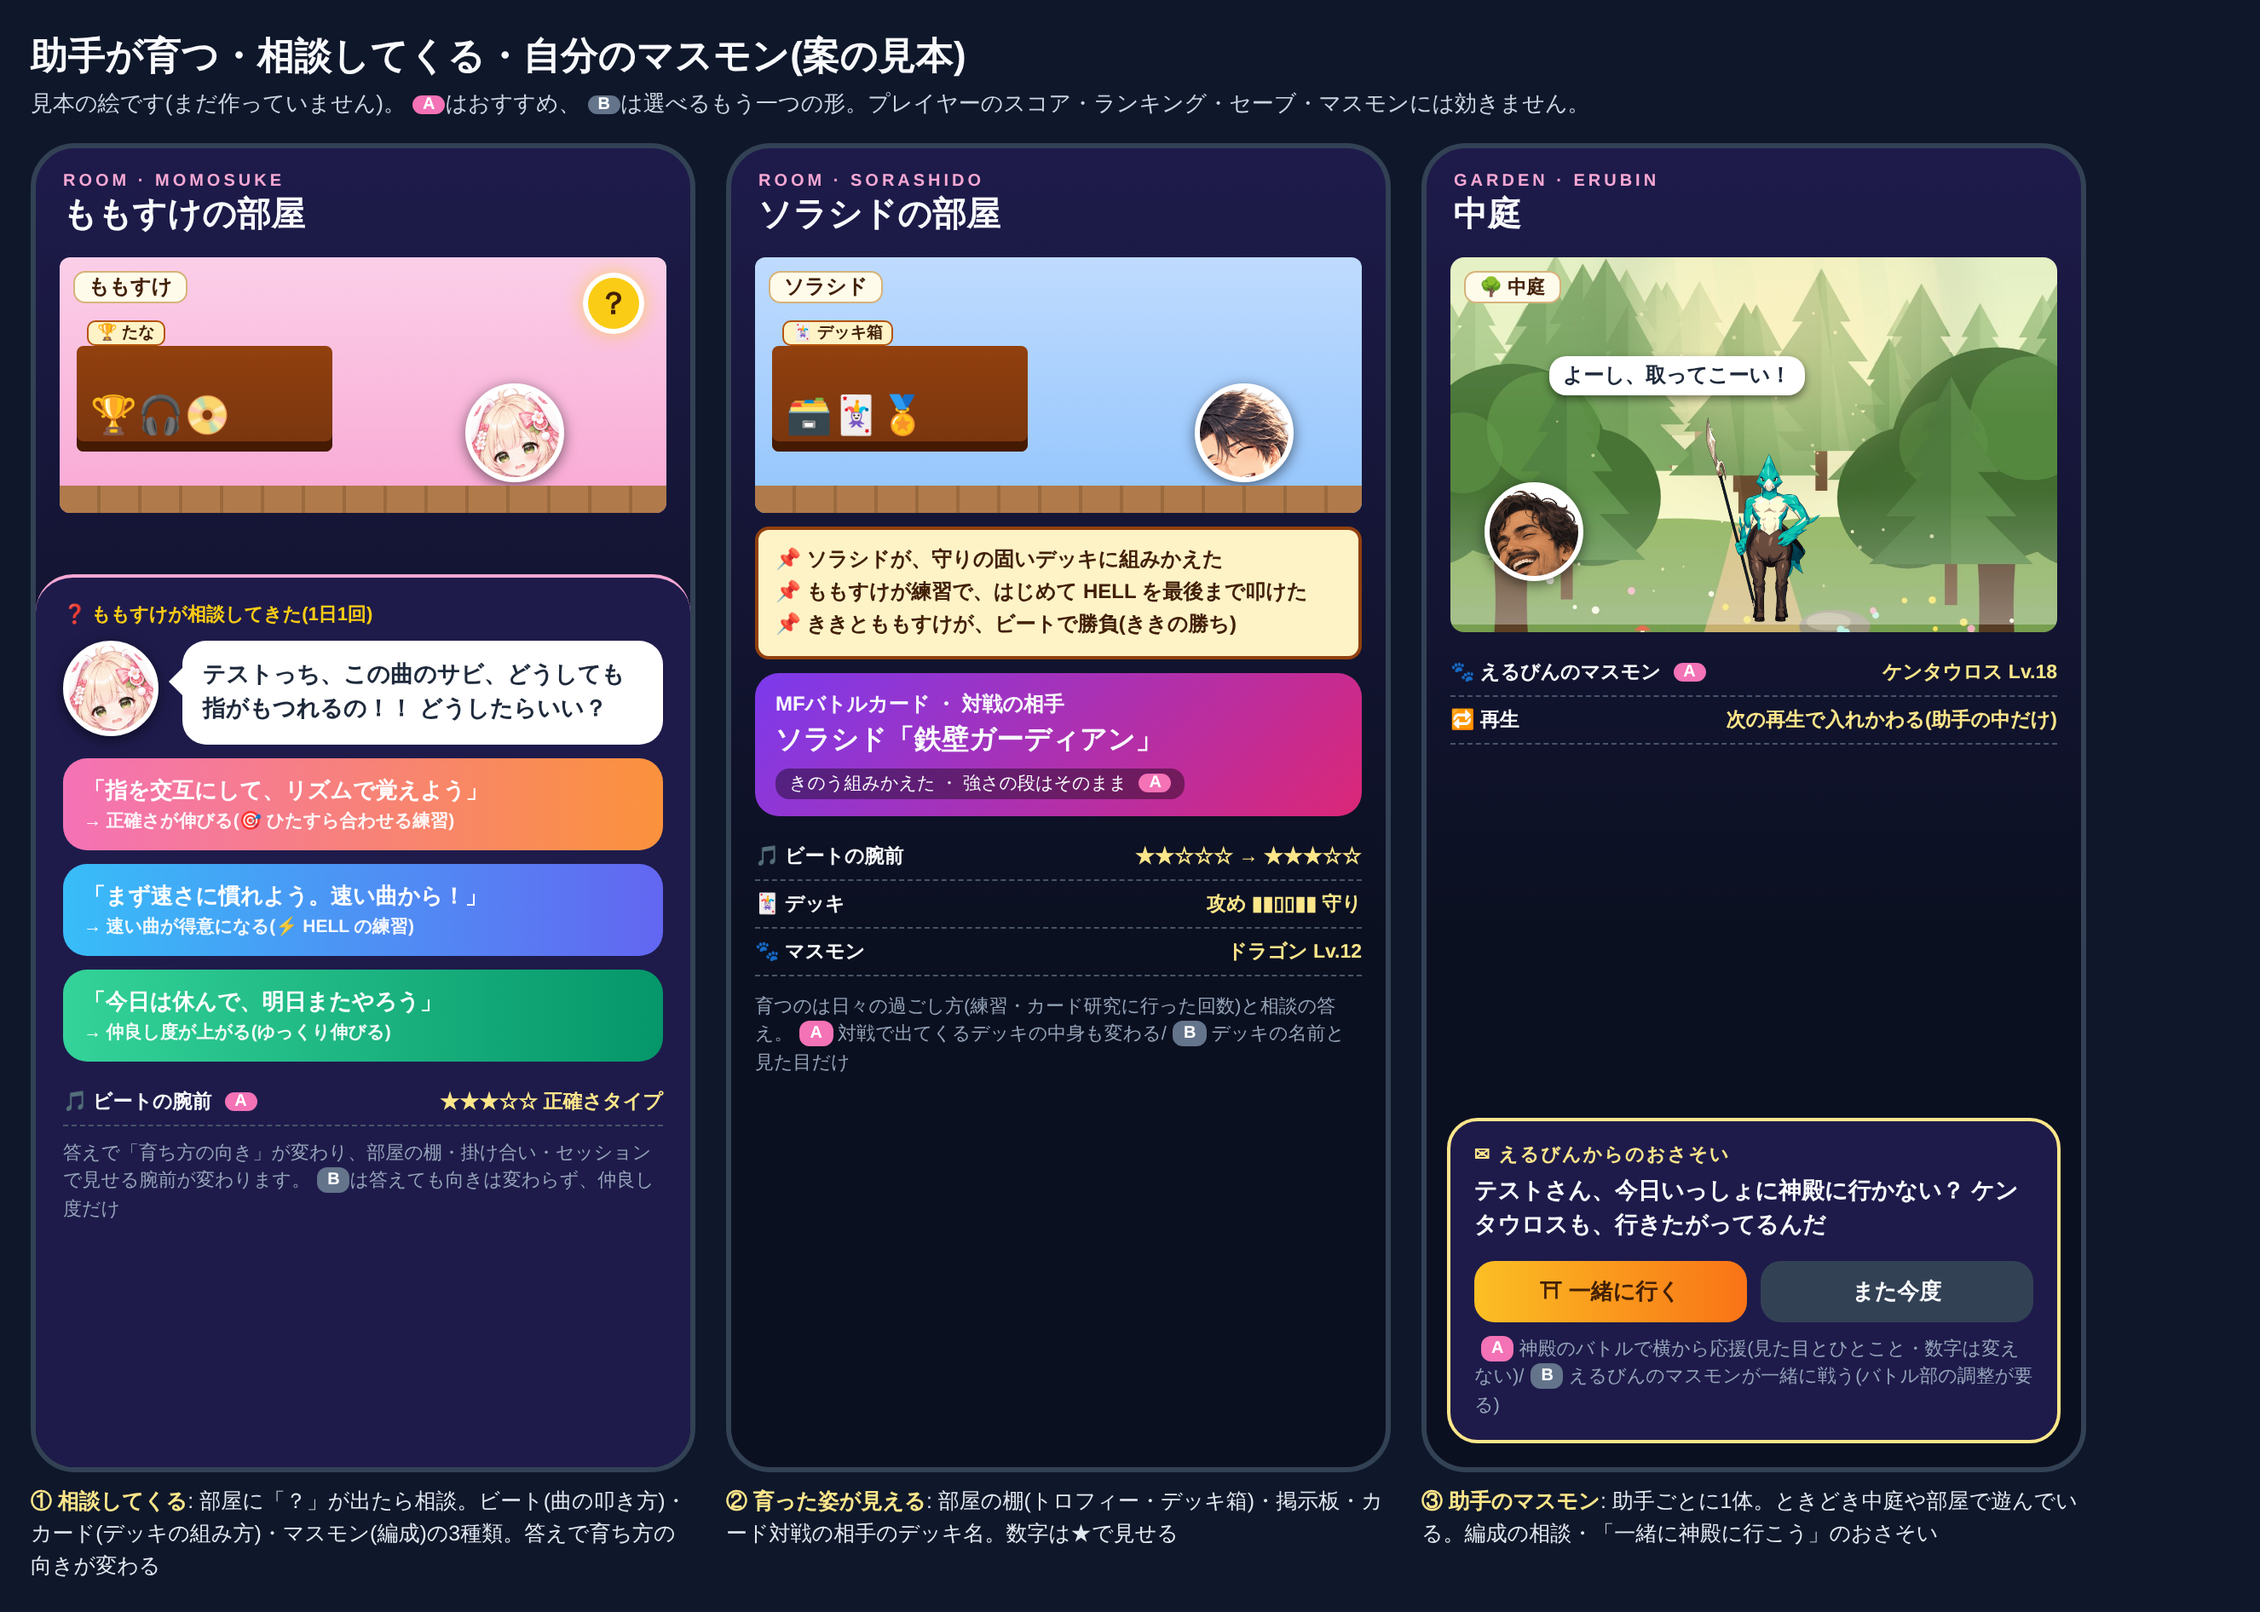
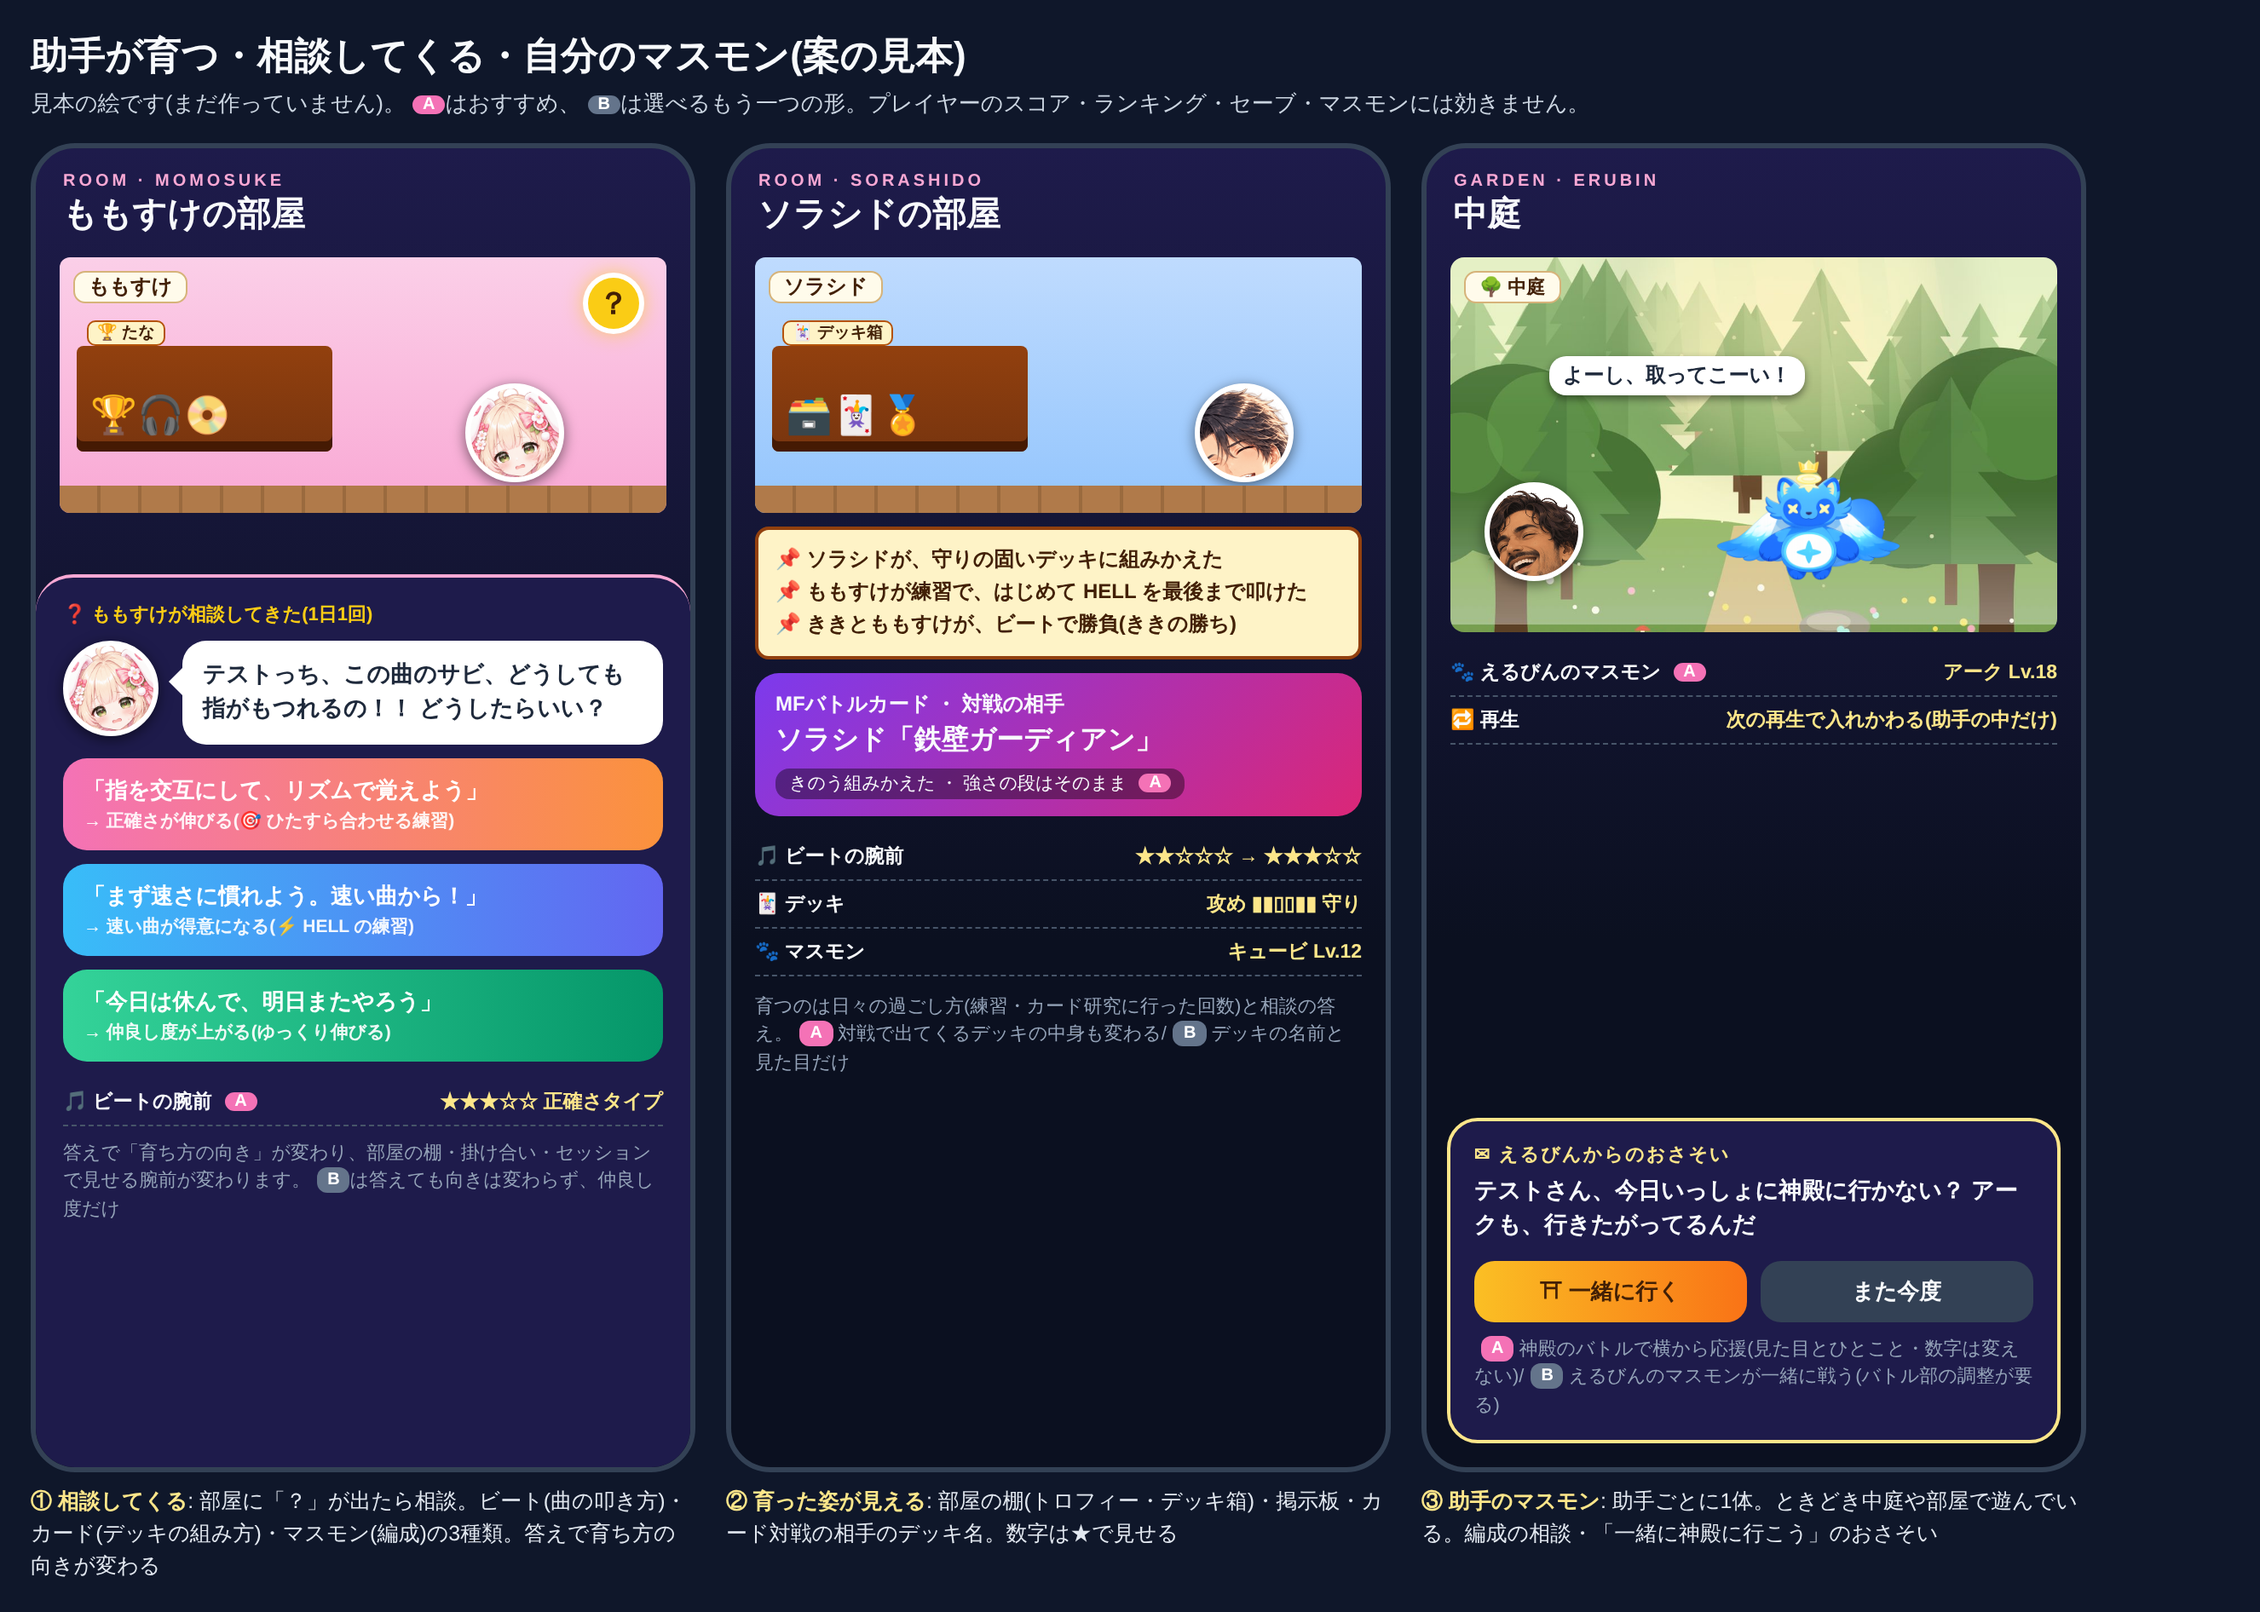
助手のマスモン候補を実装済みの血統だけに(台帳 #4914)・見本の絵も
Claude-Session: https://claude.ai/code/session_0113GBaCDhKJiAnTb1SVnAir

diff --git a/docs/progress/assistant-peer/ux/masmon-candidates.html b/docs/progress/assistant-peer/ux/masmon-candidates.html
@@ -12,15 +12,15 @@ tr:nth-child(even) td{background:#111827}
 .s{display:inline-block;font-size:10px;background:#f472b6;color:#fff;border-radius:6px;padding:0 5px;margin-left:4px;font-weight:900}
 </style></head><body>
 <h1>助手のマスモン 血統の候補(社長が1つずつ選ぶ)</h1>
-<p class="l">今ある血統から、助手ごとに3案。<span class="s">推</span>は台本の決まり(VOICE.md・FEELINGS.md)にある「好きなモンスター」。マスモンは助手の中だけで、プレイヤーのマスモン・セーブには触りません。</p>
+<p class="l">実装済みの血統(ALL_PLAYER_MONSTERS)からだけ、助手ごとに3案。<span class="s">推</span>は台本の決まり(VOICE.md・FEELINGS.md)にある「好きなモンスター」。マスモンは助手の中だけで、プレイヤーのマスモン・セーブには触りません。</p>
 <table>
 <tr><th>助手</th><th>案1</th><th>案2</th><th>案3</th></tr>
 <tr><td class="n">みゅあ</td><td><b>モッチー</b><span class="s">推</span><br>いちばんの推し。育成場でいつも育てている</td><td><b>ピクシー</b><br>元気でおしゃれ。服好きのみゅあと気が合う</td><td><b>メルホイップ</b><br>おやつ好き。甘いものの話で盛り上がる</td></tr>
 <tr><td class="n">きき</td><td><b>ゴーレム</b><span class="s">推</span><br>好きなモンスター。ちからに振って育てる</td><td><b>プラント</b><br>静かでおだやか。お茶の時間に似合う</td><td><b>ウンディーネ</b><br>落ち着いたお姉さんの雰囲気どうし</td></tr>
-<tr><td class="n">ももすけ</td><td><b>メタルナー</b><span class="s">推</span><br>いつもピカピカにみがいている</td><td><b>メロディー</b><br>歌とダンス。練習スタジオで一緒にライブごっこ</td><td><b>ハム</b><br>元気いっぱい。ほめられると跳ねる</td></tr>
-<tr><td class="n">ドラ</td><td><b>グジラ</b><span class="s">推</span><br>好きなモンスター。のんびり屋どうし</td><td><b>スエゾー</b><br>くだらないギャグに付き合ってくれる相棒</td><td><b>オボロゲソウ</b><br>ひなたの丘で一緒に昼寝</td></tr>
-<tr><td class="n">あつ</td><td><b>ドラゴン</b><span class="s">推</span><br>好きなモンスター。朝の育成で鍛えている</td><td><b>ライガー</b><br>勝負好き・前に出るタイプどうし</td><td><b>ザン</b><br>上の難易度に挑む負けず嫌い</td></tr>
-<tr><td class="n">きゅうこ</td><td><b>ニャー</b><span class="s">推</span><br>好きなモンスター。夜ふかしで育成しがち</td><td><b>イルミネ</b><span class="s">推</span><br>加入のお話から縁がある。夜の読書に灯り</td><td><b>ドリーミィ</b><span class="s">推</span><br>夢見がち。図書室でひとりの時間に寄りそう</td></tr>
+<tr><td class="n">ももすけ</td><td><b>メロディー</b><br>歌とダンス。練習スタジオで一緒にライブごっこ</td><td><b>ミーア</b><br>華やか。人に見てもらうのが好きなももすけと合う</td><td><b>ハム</b><br>元気いっぱい。ほめられると跳ねる</td></tr>
+<tr><td class="n">ドラ</td><td><b>スエゾー</b><br>くだらないギャグに付き合ってくれる相棒</td><td><b>オボロゲソウ</b><br>ひなたの丘で一緒に昼寝</td><td><b>ミタラシ</b><br>おやつの時間をのんびり一緒に</td></tr>
+<tr><td class="n">あつ</td><td><b>ライガー</b><br>勝負好き・前に出るタイプどうし</td><td><b>剣士モッチー</b><br>朝の育成で一緒に稽古する</td><td><b>ザン</b><br>上の難易度に挑む負けず嫌い</td></tr>
+<tr><td class="n">きゅうこ</td><td><b>イルミネ</b><span class="s">推</span><br>加入のお話から縁がある。夜の読書に灯り</td><td><b>ドリーミィ</b><span class="s">推</span><br>夢見がち。図書室でひとりの時間に寄りそう</td><td><b>クロミー</b><br>夜ふかしの夜に似合う、静かな相棒</td></tr>
 <tr><td class="n">ソラシド</td><td><b>キュービ</b><span class="s">推</span><br>推し。カード研究の話し相手</td><td><b>オリヒメ</b><span class="s">推</span><br>もう1人の推し。表をまとめる夜に</td><td><b>モノリス</b><br>計算と表づくり。どっしり落ち着いている</td></tr>
-<tr><td class="n">えるびん</td><td><b>デュラハン</b><span class="s">推</span><br>カード好き。カード部屋でいつも一緒</td><td><b>アーク</b><span class="s">推</span><br>好きなモンスター</td><td><b>ケンタウロス</b><br>中庭の散歩で、みんなを見守る騎士</td></tr>
+<tr><td class="n">えるびん</td><td><b>アーク</b><span class="s">推</span><br>好きなモンスター</td><td><b>ユグドラシル</b><br>中庭で、みんなを大きく見守る</td><td><b>ゴースト</b><br>カード部屋で、ゴーストのカードを研究</td></tr>
 </table></body></html>

diff --git a/docs/progress/assistant-peer/ux/grow-mock.html b/docs/progress/assistant-peer/ux/grow-mock.html
@@ -85,7 +85,7 @@ h1{font-size:22px;font-weight:900;margin-bottom:4px}
       <div style="margin:10px 14px">
         <div class="meter"><span>🎵 ビートの腕前</span><b>★★☆☆☆ → ★★★☆☆</b></div>
         <div class="meter"><span>🃏 デッキ</span><b>攻め ▮▮▯▯▮▮ 守り</b></div>
-        <div class="meter"><span>🐾 マスモン</span><b>ドラゴン Lv.12</b></div>
+        <div class="meter"><span>🐾 マスモン</span><b>キュービ Lv.12</b></div>
       </div>
       <p class="note" style="margin:0 14px">育つのは日々の過ごし方(練習・カード研究に行った回数)と相談の答え。<span class="ab">A</span> 対戦で出てくるデッキの中身も変わる/<span class="ab ab2">B</span> デッキの名前と見た目だけ</p>
     </div>
@@ -97,14 +97,14 @@ h1{font-size:22px;font-weight:900;margin-bottom:4px}
       <div class="garden"><span class="lab">🌳 中庭</span>
         <div class="face" style="left:20px;bottom:30px"><img src="../../../../monster-hero/images/assistant/erubin_happy.PNG" alt=""></div>
         <span class="bb">よーし、取ってこーい！</span>
-        <img class="mon" src="../../../../monster-hero/images/monsters/centaur.png" alt=""></div>
+        <img class="mon" src="../../../../monster-hero/images/monsters/ark.png" alt=""></div>
       <div style="margin:10px 14px">
-        <div class="meter"><span>🐾 えるびんのマスモン <span class="ab">A</span></span><b>ケンタウロス Lv.18</b></div>
+        <div class="meter"><span>🐾 えるびんのマスモン <span class="ab">A</span></span><b>アーク Lv.18</b></div>
         <div class="meter"><span>🔁 再生</span><b>次の再生で入れかわる(助手の中だけ)</b></div>
       </div>
       <div class="inv">
         <p class="h">✉ えるびんからのおさそい</p>
-        <p style="font-size:13.5px;font-weight:800;margin-top:4px;line-height:1.5">テストさん、今日いっしょに神殿に行かない？ ケンタウロスも、行きたがってるんだ</p>
+        <p style="font-size:13.5px;font-weight:800;margin-top:4px;line-height:1.5">テストさん、今日いっしょに神殿に行かない？ アークも、行きたがってるんだ</p>
         <div class="b"><span style="background:linear-gradient(90deg,#fbbf24,#f97316);color:#422006">⛩ 一緒に行く</span><span style="background:#334155">また今度</span></div>
         <p class="note" style="margin-top:8px"><span class="ab">A</span> 神殿のバトルで横から応援(見た目とひとこと・数字は変えない)/<span class="ab ab2">B</span> えるびんのマスモンが一緒に戦う(バトル部の調整が要る)</p>
       </div>
